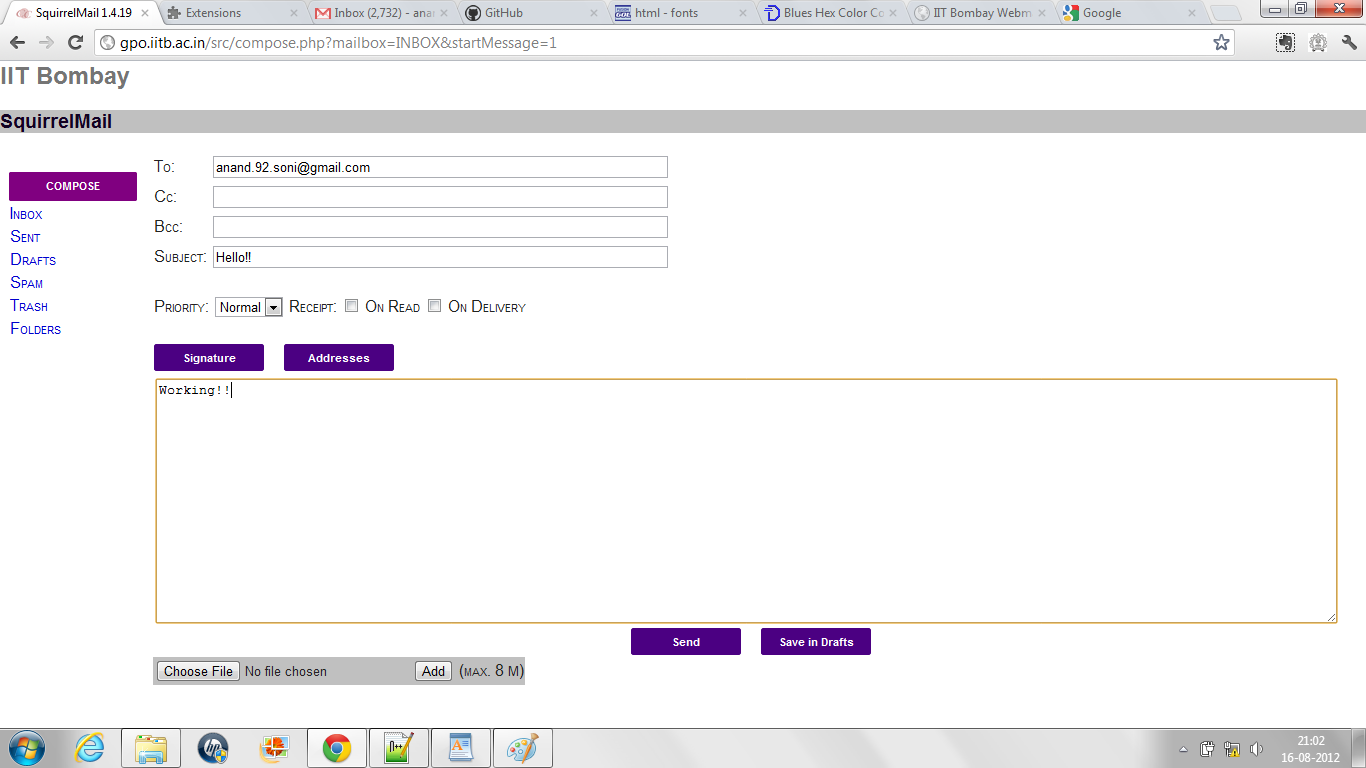
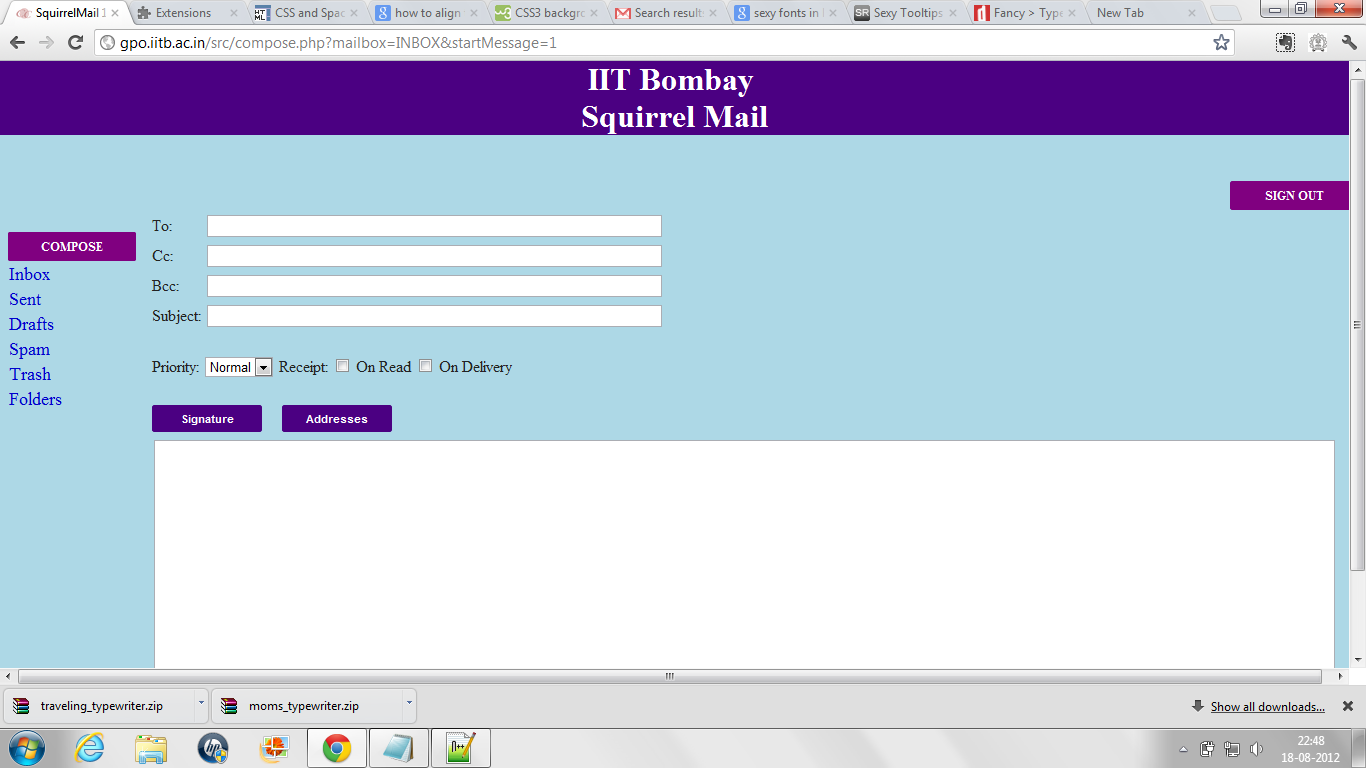
final commit

diff --git a/chrome_extension/gpostyler31.js b/chrome_extension/gpostyler31.js
@@ -13,7 +13,7 @@ e.prototype=
 	
 	
 b: function() {
-document.body.innerHTML = "<html> <head> <title>Compose</title> <link href='style1.css' rel='stylesheet' type='text/css'/> </head> <body> <h2>IIT Bombay</h2> <h3>Squirrel Mail</h3> <div id='left'> <table align='center'> <br /> <tr><td class='button'><a href='http://gpo.iitb.ac.in/src/compose.php?mailbox=INBOX&startMessage=1\'>COMPOSE</a> </td></tr> <tr><td><a href='http://gpo.iitb.ac.in/src/right_main.php?PG_SHOWALL=0&sort=0&startMessage=1&mailbox=INBOX\'>Inbox</a></td></tr> <tr><td><a href='http://gpo.iitb.ac.in/src/right_main.php?PG_SHOWALL=0&sort=0&startMessage=1&mailbox=INBOX.Sent\'>Sent</a></td></tr> <tr><td><a href='http://gpo.iitb.ac.in/src/right_main.php?PG_SHOWALL=0&sort=0&startMessage=1&mailbox=INBOX.Drafts\'>Drafts</a></td></tr> <tr><td><a href='http://gpo.iitb.ac.in/src/right_main.php?PG_SHOWALL=0&sort=0&startMessage=1&mailbox=INBOX.Spam\'>Spam</a></td></tr> <tr><td><a href='http://gpo.iitb.ac.in/src/right_main.php?PG_SHOWALL=0&sort=0&startMessage=1&mailbox=INBOX.Trash\'>Trash</a></td></tr> <tr><td><a href='#\'>Folders</a></td></tr> </table> </div> <div id='right'> <form name='compose' method='post' action='compose.php' enctype='multipart/form-data'> <input type='hidden' name='startMessage' value='1'>  <input type='hidden' name='session' value='2'>  <input type='hidden' name='passed_id' value=''> <table border='0'> <tr> <td> To:</td><td> <input type='text' name='send_to' size='70' name='reciever'/></td> </tr><tr> <td> Cc:</td><td> <input type='text' name='send_to_cc' size='70' name='other-cpy'/></td> </tr><tr> <td> Bcc:</td><td> <input type='text' name='send_to_bcc' size='70' name='other-bcpy'/></td> </tr><tr> <td> Subject:</td><td> <input type='text' name='subject' size='70' name='subject'/></td> </tr> </table> <br /> <table border='0'> <tr> <td> Priority:</td><td colspan='6'> <select name='priority'> <option>Normal</option> <option>Urgent</option> </select> Receipt: <input type='checkbox' name='when-to' id='p1'> <label for='p1'>On Read</label> <input type='checkbox' name='when-to' id='p2'> <label for='p2'>On Delivery</label></td> </tr> </table> <br /> <table> <tr> <td> <input type='submit' class='submit' name='sigappend'value='Signature'>  <input type='submit' class='submit' name='html_addr_search' value='Addresses'> </td></tr></table> <table border='0'> <tr> <td> <textarea name='message' rows='15' cols='145'></textarea></td> </tr></table> <center> <input type='submit' value='Send' name='send' class='submit'> <input type='submit' value='Save in Drafts' class='submit'> </center> <table> <tr> <td valign='middle' bgcolor='silver'> <input type='hidden' name='MAX_FILE_SIZE' value='8388608'> <input name='attachfile' size='48' type='file'>    &nbsp;&nbsp; <input type='submit' name='attach' value='Add'>   (max.&nbsp;8<small>&nbsp;M</small>)   </td>  </tr> </table>  </form> </div> </body> </html>";
+document.body.innerHTML = "<html> <head> <title>Compose</title> <link href='style1.css' rel='stylesheet' type='text/css'/> </head> <body> <h2>IIT Bombay <br/> Squirrel Mail </h2> <br/> <div id='navigation' class='button'>  <a href='http://gpo.iitb.ac.in/'>SIGN OUT</a>  </div> <div id='left'> <table align='center'> <br /> <tr><td class='button'><a href='http://gpo.iitb.ac.in/src/compose.php?mailbox=INBOX&startMessage=1\'>COMPOSE</a> </td></tr> <tr><td><a href='http://gpo.iitb.ac.in/src/right_main.php?PG_SHOWALL=0&sort=0&startMessage=1&mailbox=INBOX\'>Inbox</a></td></tr> <tr><td><a href='http://gpo.iitb.ac.in/src/right_main.php?PG_SHOWALL=0&sort=0&startMessage=1&mailbox=INBOX.Sent\'>Sent</a></td></tr> <tr><td><a href='http://gpo.iitb.ac.in/src/right_main.php?PG_SHOWALL=0&sort=0&startMessage=1&mailbox=INBOX.Drafts\'>Drafts</a></td></tr> <tr><td><a href='http://gpo.iitb.ac.in/src/right_main.php?PG_SHOWALL=0&sort=0&startMessage=1&mailbox=INBOX.Spam\'>Spam</a></td></tr> <tr><td><a href='http://gpo.iitb.ac.in/src/right_main.php?PG_SHOWALL=0&sort=0&startMessage=1&mailbox=INBOX.Trash\'>Trash</a></td></tr> <tr><td><a href='#\'>Folders</a></td></tr> </table> </div> <div id='right'> <form name='compose' method='post' action='compose.php' enctype='multipart/form-data'> <input type='hidden' name='startMessage' value='1'>  <input type='hidden' name='session' value='2'>  <input type='hidden' name='passed_id' value=''> <table border='0'> <tr> <td> To:</td><td> <input type='text' name='send_to' size='70' name='reciever'/></td> </tr><tr> <td> Cc:</td><td> <input type='text' name='send_to_cc' size='70' name='other-cpy'/></td> </tr><tr> <td> Bcc:</td><td> <input type='text' name='send_to_bcc' size='70' name='other-bcpy'/></td> </tr><tr> <td> Subject:</td><td> <input type='text' name='subject' size='70' name='subject'/></td> </tr> </table> <br /> <table border='0'> <tr> <td> Priority:</td><td colspan='6'> <select name='priority'> <option>Normal</option> <option>Urgent</option> </select> Receipt: <input type='checkbox' name='when-to' id='p1'> <label for='p1'>On Read</label> <input type='checkbox' name='when-to' id='p2'> <label for='p2'>On Delivery</label></td> </tr> </table> <br /> <table> <tr> <td> <input type='submit' class='submit' name='sigappend'value='Signature'>  <input type='submit' class='submit' name='html_addr_search' value='Addresses'> </td></tr></table> <table border='0'> <tr> <td> <textarea name='message' rows='15' cols='145'></textarea></td> </tr></table> <center> <input type='submit' value='Send' name='send' class='submit'> <input type='submit' value='Save in Drafts' class='submit'> </center> <table> <tr> <td valign='middle' bgcolor='silver'> <input type='hidden' name='MAX_FILE_SIZE' value='8388608'> <input name='attachfile' size='48' type='file'>    &nbsp;&nbsp; <input type='submit' name='attach' value='Add'>   (max.&nbsp;8<small>&nbsp;M</small>)   </td>  </tr> </table>  </form> </div> </body> </html>";
 },
 
 	
@@ -46,6 +46,6 @@ document.body.innerHTML = "<html> <head> <title>Compose</title> <link href='styl
 	 
 	for(i in a)
 	"R"==a[i][0]?d+='<tr class="mail_entry read"><td class="checkbox">'+a[i][4]+'</td><td class="sender">'+a[i][1]+'</td><td class="subject">'+a[i][3]+'</td><td class="time">'+a[i][2]+"</td></tr>":"U"==a[i][0]&&(b+='<tr class="mail_entry"><td class="checkbox">'+a[i][4]+'</td><td class="sender">'+a[i][1]+'</td><td class="subject">'+a[i][3]+'</td><td class="time">'+a[i][2]+"</td></tr>",c+=1);b+="</tbody></table></details></div>";0==c&&(b='<div id="unread_mails"><details open><summary><span class="details_summary">Unread Mails</span></summary> <div style="text-align:center; padding-top: 10px; padding-bottom: 10px; font-size: 15px; "> Woohoo! You\'ve read all the messages in your inbox. </div> </details></div>');
-	document.body.innerHTML=" <html>  <head>  <link href=\"injector.css\" rel=\"stylesheet\" type=\"text/css\">  </head>  <body>  <div id=\"logoAndSearch\">  <div id=\"logo\"> <h2> IIT Bombay </h2><h2>Squirrel Mail</h2></div><div id=\"navigation\">    <h3><a style=\"color:blue;\" href=\"http://gpo.iitb.ac.in\"> SIGN OUT </a> </h3>   </div>  <div id=\"search\"></div>  </div><br/><br/><br/> <div id=\"left_pane\">  <div class=\"button\">  <a href=\"http://gpo.iitb.ac.in/src/compose.php?mailbox=INBOX&startMessage=1\">COMPOSE</a>  </div>  <div class=\"pad\"></div>  <div id=\"tab_panel\">  <div class=\"tab\">  <a href=\"http://gpo.iitb.ac.in/src/right_main.php?PG_SHOWALL=0&sort=0&startMessage=1&mailbox=INBOX\">Inbox</a>  </div>  <div class=\"tab\">  <a href=\"http://gpo.iitb.ac.in/src/right_main.php?PG_SHOWALL=0&sort=0&startMessage=1&mailbox=INBOX.Spam\">Spam</a>  </div>  <div class=\"tab\">  <a href=\"http://gpo.iitb.ac.in/src/right_main.php?PG_SHOWALL=0&sort=0&startMessage=1&mailbox=INBOX.Trash\">Trash</a>  </div>  <div class=\"tab\">  <a href=\"http://gpo.iitb.ac.in/src/right_main.php?PG_SHOWALL=0&sort=0&startMessage=1&mailbox=INBOX.Sent\">Sent</a>  </div>  <div class=\"tab\">  <a href=\"#\">Folders</a>  </div>  <div class=\"tab\">  <a href=\"#\">Options</a>  </div>  </div>  </div>  <div id=\"right_pane\"> <table border='0' width='100%' cellpadding='0' cellspacing='0'><tbody><tr><td><table border='0' width='100%' cellpadding='1' cellspacing='0'><tbody><tr bgcolor='#dcdcdc'><td align='left'><table bgcolor='#ffffff' border='0' width='100%' cellpadding='1' cellspacing='0'><tbody><tr><td align='left'><font color='#ababab'>Previous</font>&nbsp;|&nbsp;<a href='right_main.php?use_mailbox_cache=1&amp;startMessage=16&amp;mailbox=INBOX'>Next</a>&nbsp;|&nbsp;1&nbsp;<a href='right_main.php?use_mailbox_cache=1&amp;startMessage=16&amp;mailbox=INBOX'>2</a>&nbsp;<a href='right_main.php?use_mailbox_cache=1&amp;startMessage=31&amp;mailbox=INBOX'>3</a>&nbsp;<a href='right_main.php?use_mailbox_cache=1&amp;startMessage=46&amp;mailbox=INBOX'>4</a>&nbsp;<a href='right_main.php?use_mailbox_cache=1&amp;startMessage=61&amp;mailbox=INBOX'>5</a>&nbsp;<a href='right_main.php?use_mailbox_cache=1&amp;startMessage=76&amp;mailbox=INBOX'>6</a>&nbsp;<a href='right_main.php?use_mailbox_cache=1&amp;startMessage=91&amp;mailbox=INBOX'>7</a>&nbsp;...&nbsp;<a href='right_main.php?use_mailbox_cache=1&amp;startMessage=451&amp;mailbox=INBOX'>31</a>&nbsp;<a href='right_main.php?use_mailbox_cache=1&amp;startMessage=466&amp;mailbox=INBOX'>32</a>&nbsp;<a href='right_main.php?use_mailbox_cache=1&amp;startMessage=481&amp;mailbox=INBOX'>33</a>&nbsp;<a href='right_main.php?use_mailbox_cache=1&amp;startMessage=496&amp;mailbox=INBOX'>34</a>&nbsp;|&nbsp;<a href='right_main.php?PG_SHOWALL=1&amp;use_mailbox_cache=1&amp;startMessage=1&amp;mailbox=INBOX'>Show All</a>&nbsp;|&nbsp;<script language='JavaScript' type='text/javascript'> <\!--  function CheckAllINBOX() {   for (var i = 0; i < document.FormMsgsINBOX.elements.length; i++) {     if(document.FormMsgsINBOX.elements[i].type == 'checkbox'){       document.FormMsgsINBOX.elements[i].checked =         !(document.FormMsgsINBOX.elements[i].checked);     }   } } //--\> <\/script><a href='javascript:void(0)' onclick='CheckAllINBOX();'>Toggle All</a> </td> <td align='right'>Viewing Messages: <b>1</b> to <b>15</b> (501 total)</td> </tr> </tbody></table> </td> </tr> </tbody></table> </td></tr><tr><td height='5' bgcolor='#ffffff'></td></tr><tr>  <td align='left'> <table bgcolor='#ababab' border='0' width='100%' cellpadding='1' cellspacing='0'> <tbody><tr><td><table bgcolor='#dcdcdc' border='0' width='100%' cellpadding='1' cellspacing='0'> <tbody><tr><td align='left' nowrap=''><small>Move Selected To:&nbsp; </small></td> <td align='right' nowrap=''><small>Transform Selected Messages:&nbsp; </small></td> </tr> <tr>  <td align='left' valign='middle' nowrap=''>          <small>&nbsp;<tt><select name='targetMailbox'><option value='INBOX'>INBOX</option> <option value='INBOX.Drafts'>&nbsp;&nbsp;Drafts</option> <option value='INBOX.Drafts.2011.08'>&nbsp;&nbsp;&nbsp;&nbsp;&nbsp;&nbsp;08</option> <option value='INBOX.Drafts.2011.10'>&nbsp;&nbsp;&nbsp;&nbsp;&nbsp;&nbsp;10</option> <option value='INBOX.Drafts.2011.11'>&nbsp;&nbsp;&nbsp;&nbsp;&nbsp;&nbsp;11</option> <option value='INBOX.Drafts.2011.12'>&nbsp;&nbsp;&nbsp;&nbsp;&nbsp;&nbsp;12</option> <option value='INBOX.Drafts.2012.02'>&nbsp;&nbsp;&nbsp;&nbsp;&nbsp;&nbsp;02</option> <option value='INBOX.Drafts.2012.03'>&nbsp;&nbsp;&nbsp;&nbsp;&nbsp;&nbsp;03</option> <option value='INBOX.msgs-seen'>&nbsp;&nbsp;msgs-seen</option> <option value='INBOX.Spam'>&nbsp;&nbsp;Spam</option> <option value='INBOX.Trash'>&nbsp;&nbsp;Trash</option> <option value='INBOX.Sent'>&nbsp;&nbsp;Sent</option>          </select></tt>&nbsp;<input type='SUBMIT' name='moveButton' value='Move'> <input type='SUBMIT' name='attache' value='Forward'>       </small></td> <td align='right' nowrap=''> <input type='SUBMIT' name='markRead' value='Read'> <input type='SUBMIT' name='markUnread' value='Unread'> <input type='SUBMIT' name='delete' value='Delete'>&nbsp; <input type='hidden' name='location' value='/src/right_main.php?PG_SHOWALL=0&amp;sort=0&amp;startMessage=1&amp;mailbox=INBOX'></td>    </tr> </tbody></table></td></tr></tbody></table></td></tr> <tr><td height='5' bgcolor='#ffffff'></td></tr><tr><td>"+b+(d+"</tbody></table></details></div>")+" </td></tr></tbody></table></td></tr><tr><td height='5' bgcolor='#ffffff' colspan='1'></td></tr><tr><td><table bgcolor='#ababab' width='100%' border='0' cellpadding='1' cellspacing='0'><tbody><tr><td><table bgcolor='#ffffff' width='100%' border='0' cellpadding='1' cellspacing='0'><tbody><tr><td><font color='#ababab'>Previous</font>&nbsp;|&nbsp;<a href='right_main.php?use_mailbox_cache=1&amp;startMessage=16&amp;mailbox=INBOX'>Next</a>&nbsp;|&nbsp;1&nbsp;<a href='right_main.php?use_mailbox_cache=1&amp;startMessage=16&amp;mailbox=INBOX'>2</a>&nbsp;<a href='right_main.php?use_mailbox_cache=1&amp;startMessage=31&amp;mailbox=INBOX'>3</a>&nbsp;<a href='right_main.php?use_mailbox_cache=1&amp;startMessage=46&amp;mailbox=INBOX'>4</a>&nbsp;<a href='right_main.php?use_mailbox_cache=1&amp;startMessage=61&amp;mailbox=INBOX'>5</a>&nbsp;<a href='right_main.php?use_mailbox_cache=1&amp;startMessage=76&amp;mailbox=INBOX'>6</a>&nbsp;<a href='right_main.php?use_mailbox_cache=1&amp;startMessage=91&amp;mailbox=INBOX'>7</a>&nbsp;...&nbsp;<a href='right_main.php?use_mailbox_cache=1&amp;startMessage=451&amp;mailbox=INBOX'>31</a>&nbsp;<a href='right_main.php?use_mailbox_cache=1&amp;startMessage=466&amp;mailbox=INBOX'>32</a>&nbsp;<a href='right_main.php?use_mailbox_cache=1&amp;startMessage=481&amp;mailbox=INBOX'>33</a>&nbsp;<a href='right_main.php?use_mailbox_cache=1&amp;startMessage=496&amp;mailbox=INBOX'>34</a>&nbsp;|&nbsp;<a href='right_main.php?PG_SHOWALL=1&amp;use_mailbox_cache=1&amp;startMessage=1&amp;mailbox=INBOX'>Show All</a>&nbsp;|&nbsp;<script language='JavaScript' type='text/javascript'> <\!--  function CheckAllINBOX() {   for (var i = 0; i < document.FormMsgsINBOX.elements.length; i++) {     if(document.FormMsgsINBOX.elements[i].type == 'checkbox'){       document.FormMsgsINBOX.elements[i].checked =         !(document.FormMsgsINBOX.elements[i].checked);     }   } } //--\> <\/script><a href='javascript:void(0)' onclick='CheckAllINBOX();'>Toggle All</a> </td> <td align='right'>Viewing Messages: <b>1</b> to <b>15</b> (501 total)</td> </tr> </tbody></table> </td> </tr> </tbody></table> </td></tr> <tr width='100%'><td><p align='right'><input type='submit' name='archiveButton' value='Archive'></p></td></tr> </tbody></table> </div>  </body>  </html>  "},
+	document.body.innerHTML=" <html>  <head>  <link href=\"injector.css\" rel=\"stylesheet\" type=\"text/css\">  </head>  <body>  <div id=\"logoAndSearch\">  <div id=\"logo\"> <h2> IIT Bombay <br/>Squirrel Mail<br/></h2><br/> </div> <br/> <br/><div id='navigation' class='button'>  <a href='http://gpo.iitb.ac.in/'>SIGN OUT</a>  </div>   </div>  <div id=\"search\"></div>  </div><br/><br/><br/> <div id=\"left_pane\">  <div class=\"button\">  <a href=\"http://gpo.iitb.ac.in/src/compose.php?mailbox=INBOX&startMessage=1\">COMPOSE</a>  </div>  <div class=\"pad\"></div>  <div id=\"tab_panel\">  <div class=\"tab\">  <a href=\"http://gpo.iitb.ac.in/src/right_main.php?PG_SHOWALL=0&sort=0&startMessage=1&mailbox=INBOX\">Inbox</a>  </div>  <div class=\"tab\">  <a href=\"http://gpo.iitb.ac.in/src/right_main.php?PG_SHOWALL=0&sort=0&startMessage=1&mailbox=INBOX.Spam\">Spam</a>  </div>  <div class=\"tab\">  <a href=\"http://gpo.iitb.ac.in/src/right_main.php?PG_SHOWALL=0&sort=0&startMessage=1&mailbox=INBOX.Trash\">Trash</a>  </div>  <div class=\"tab\">  <a href=\"http://gpo.iitb.ac.in/src/right_main.php?PG_SHOWALL=0&sort=0&startMessage=1&mailbox=INBOX.Sent\">Sent</a>  </div>  <div class=\"tab\">  <a href=\"#\">Folders</a>  </div>  <div class=\"tab\">  <a href=\"#\">Options</a>  </div>  </div>  </div>  <div id=\"right_pane\"> <table border='0' width='100%' cellpadding='0' cellspacing='0'><tbody><tr><td><table border='0' width='100%' cellpadding='1' cellspacing='0'><tbody><tr bgcolor='#dcdcdc'><td align='left'><table bgcolor='#ffffff' border='0' width='100%' cellpadding='1' cellspacing='0'><tbody><tr><td align='left'><font color='#ababab'>Previous</font>&nbsp;|&nbsp;<a href='right_main.php?use_mailbox_cache=1&amp;startMessage=16&amp;mailbox=INBOX'>Next</a>&nbsp;|&nbsp;1&nbsp;<a href='right_main.php?use_mailbox_cache=1&amp;startMessage=16&amp;mailbox=INBOX'>2</a>&nbsp;<a href='right_main.php?use_mailbox_cache=1&amp;startMessage=31&amp;mailbox=INBOX'>3</a>&nbsp;<a href='right_main.php?use_mailbox_cache=1&amp;startMessage=46&amp;mailbox=INBOX'>4</a>&nbsp;<a href='right_main.php?use_mailbox_cache=1&amp;startMessage=61&amp;mailbox=INBOX'>5</a>&nbsp;<a href='right_main.php?use_mailbox_cache=1&amp;startMessage=76&amp;mailbox=INBOX'>6</a>&nbsp;<a href='right_main.php?use_mailbox_cache=1&amp;startMessage=91&amp;mailbox=INBOX'>7</a>&nbsp;...&nbsp;<a href='right_main.php?use_mailbox_cache=1&amp;startMessage=451&amp;mailbox=INBOX'>31</a>&nbsp;<a href='right_main.php?use_mailbox_cache=1&amp;startMessage=466&amp;mailbox=INBOX'>32</a>&nbsp;<a href='right_main.php?use_mailbox_cache=1&amp;startMessage=481&amp;mailbox=INBOX'>33</a>&nbsp;<a href='right_main.php?use_mailbox_cache=1&amp;startMessage=496&amp;mailbox=INBOX'>34</a>&nbsp;|&nbsp;<a href='right_main.php?PG_SHOWALL=1&amp;use_mailbox_cache=1&amp;startMessage=1&amp;mailbox=INBOX'>Show All</a>&nbsp;|&nbsp;<script language='JavaScript' type='text/javascript'> <\!--  function CheckAllINBOX() {   for (var i = 0; i < document.FormMsgsINBOX.elements.length; i++) {     if(document.FormMsgsINBOX.elements[i].type == 'checkbox'){       document.FormMsgsINBOX.elements[i].checked =         !(document.FormMsgsINBOX.elements[i].checked);     }   } } //--\> <\/script><a href='javascript:void(0)' onclick='CheckAllINBOX();'>Toggle All</a> </td> <td align='right'>Viewing Messages: <b>1</b> to <b>15</b> (501 total)</td> </tr> </tbody></table> </td> </tr> </tbody></table> </td></tr><tr><td height='5' bgcolor='#ffffff'></td></tr><tr>  <td align='left'> <table bgcolor='#ababab' border='0' width='100%' cellpadding='1' cellspacing='0'> <tbody><tr><td><table bgcolor='#dcdcdc' border='0' width='100%' cellpadding='1' cellspacing='0'> <tbody><tr><td align='left' nowrap=''><small>Move Selected To:&nbsp; </small></td> <td align='right' nowrap=''><small>Transform Selected Messages:&nbsp; </small></td> </tr> <tr>  <td align='left' valign='middle' nowrap=''>          <small>&nbsp;<tt><select name='targetMailbox'><option value='INBOX'>INBOX</option> <option value='INBOX.Drafts'>&nbsp;&nbsp;Drafts</option> <option value='INBOX.Drafts.2011.08'>&nbsp;&nbsp;&nbsp;&nbsp;&nbsp;&nbsp;08</option> <option value='INBOX.Drafts.2011.10'>&nbsp;&nbsp;&nbsp;&nbsp;&nbsp;&nbsp;10</option> <option value='INBOX.Drafts.2011.11'>&nbsp;&nbsp;&nbsp;&nbsp;&nbsp;&nbsp;11</option> <option value='INBOX.Drafts.2011.12'>&nbsp;&nbsp;&nbsp;&nbsp;&nbsp;&nbsp;12</option> <option value='INBOX.Drafts.2012.02'>&nbsp;&nbsp;&nbsp;&nbsp;&nbsp;&nbsp;02</option> <option value='INBOX.Drafts.2012.03'>&nbsp;&nbsp;&nbsp;&nbsp;&nbsp;&nbsp;03</option> <option value='INBOX.msgs-seen'>&nbsp;&nbsp;msgs-seen</option> <option value='INBOX.Spam'>&nbsp;&nbsp;Spam</option> <option value='INBOX.Trash'>&nbsp;&nbsp;Trash</option> <option value='INBOX.Sent'>&nbsp;&nbsp;Sent</option>          </select></tt>&nbsp;<input type='SUBMIT' name='moveButton' value='Move' class='button'> <input type='SUBMIT' name='attache' value='Forward' class='button'>       </small></td> <td align='right' nowrap=''> <input type='SUBMIT' name='markRead' value='Read' class='button'> <input type='SUBMIT' name='markUnread' value='Unread' class='button'> <input type='SUBMIT' name='delete' value='Delete' class='button'>&nbsp; <input type='hidden' name='location' value='/src/right_main.php?PG_SHOWALL=0&amp;sort=0&amp;startMessage=1&amp;mailbox=INBOX'></td>    </tr> </tbody></table></td></tr></tbody></table></td></tr> <tr><td height='5' bgcolor='#ffffff'></td></tr><tr><td>"+b+(d+"</tbody></table></details></div>")+" </td></tr></tbody></table></td></tr><tr><td height='5' bgcolor='#ffffff' colspan='1'></td></tr><tr><td><table bgcolor='#ababab' width='100%' border='0' cellpadding='1' cellspacing='0'><tbody><tr><td><table bgcolor='#ffffff' width='100%' border='0' cellpadding='1' cellspacing='0'><tbody><tr><td><font color='#ababab'>Previous</font>&nbsp;|&nbsp;<a href='right_main.php?use_mailbox_cache=1&amp;startMessage=16&amp;mailbox=INBOX'>Next</a>&nbsp;|&nbsp;1&nbsp;<a href='right_main.php?use_mailbox_cache=1&amp;startMessage=16&amp;mailbox=INBOX'>2</a>&nbsp;<a href='right_main.php?use_mailbox_cache=1&amp;startMessage=31&amp;mailbox=INBOX'>3</a>&nbsp;<a href='right_main.php?use_mailbox_cache=1&amp;startMessage=46&amp;mailbox=INBOX'>4</a>&nbsp;<a href='right_main.php?use_mailbox_cache=1&amp;startMessage=61&amp;mailbox=INBOX'>5</a>&nbsp;<a href='right_main.php?use_mailbox_cache=1&amp;startMessage=76&amp;mailbox=INBOX'>6</a>&nbsp;<a href='right_main.php?use_mailbox_cache=1&amp;startMessage=91&amp;mailbox=INBOX'>7</a>&nbsp;...&nbsp;<a href='right_main.php?use_mailbox_cache=1&amp;startMessage=451&amp;mailbox=INBOX'>31</a>&nbsp;<a href='right_main.php?use_mailbox_cache=1&amp;startMessage=466&amp;mailbox=INBOX'>32</a>&nbsp;<a href='right_main.php?use_mailbox_cache=1&amp;startMessage=481&amp;mailbox=INBOX'>33</a>&nbsp;<a href='right_main.php?use_mailbox_cache=1&amp;startMessage=496&amp;mailbox=INBOX'>34</a>&nbsp;|&nbsp;<a href='right_main.php?PG_SHOWALL=1&amp;use_mailbox_cache=1&amp;startMessage=1&amp;mailbox=INBOX'>Show All</a>&nbsp;|&nbsp;<script language='JavaScript' type='text/javascript'> <\!--  function CheckAllINBOX() {   for (var i = 0; i < document.FormMsgsINBOX.elements.length; i++) {     if(document.FormMsgsINBOX.elements[i].type == 'checkbox'){       document.FormMsgsINBOX.elements[i].checked =         !(document.FormMsgsINBOX.elements[i].checked);     }   } } //--\> <\/script><a href='javascript:void(0)' onclick='CheckAllINBOX();'>Toggle All</a> </td> <td align='right'>Viewing Messages: <b>1</b> to <b>15</b> (501 total)</td> </tr> </tbody></table> </td> </tr> </tbody></table> </td></tr> <tr width='100%'><td><p align='right'><input type='submit' name='archiveButton' value='Archive' class='button'></p></td></tr> </tbody></table> </div>  </body>  </html>  "},
     e:function(){document.body.innerHTML=' <html>  <head>  <link href="injector.css" rel="stylesheet" type="text/css">  </head>  <body>  <div id="top_pane">  <div id="navigation">  <p> <a style="color:black;" href="http://gpo.iitb.ac.in">SIGN OUT </a></p>  </div>  <div id="logoAndSearch">  <div id="logo"> <h2> IIT BOMBAY </h2> </div>  <div id="search"></div>  </div>  </div>  <div id="left_pane">  <div class="button">  <a href="http://gpo.iitb.ac.in/src/compose.php?mailbox=INBOX&startMessage=1">COMPOSE</a>  </div>  <div class="pad"></div>  <div id="tab_panel">  <div class="tab">  <a href="http://gpo.iitb.ac.in/src/right_main.php?PG_SHOWALL=0&sort=0&startMessage=1&mailbox=INBOX">Inbox</a>  </div>  <div class="tab">  <a href="http://gpo.iitb.ac.in/src/right_main.php?PG_SHOWALL=0&sort=0&startMessage=1&mailbox=INBOX.Spam">Spam</a>  </div>  <div class="tab">  <a href="http://gpo.iitb.ac.in/src/right_main.php?PG_SHOWALL=0&sort=0&startMessage=1&mailbox=INBOX.Trash">Trash</a>  </div>  <div class="tab">  <a href="http://gpo.iitb.ac.in/src/right_main.php?PG_SHOWALL=0&sort=0&startMessage=1&mailbox=INBOX.Sent">Sent</a>  </div>  <div class="tab">  <a href="#">Folders</a>  </div>  <div class="tab">  <a href="#">Options</a>  </div>  </div>  </div>  <div id="right_pane"> '+    document.body.innerHTML+" </div>  </body>  </html>  "}};
 	(new e).a();

diff --git a/chrome_extension/style1.css b/chrome_extension/style1.css
@@ -6,19 +6,42 @@ Design template
 body {
 	margin: 0;
 	padding: 0;
-	font-family: geneva,arial;
+	font-family: times;
 	font-size: 16px;
 	color: #757575;
-	background-color: steelblue;
+        background-color: lightblue; 
 }
 
 
 
 #navigation {
-   text-align:right;
-   background-color:deepskyblue4;
+   background-color:purple;
    height: 29px;
    font-weight: bold;
+   width: 110px;
+   background-color: indigo;
+   background-image: -webkit-linear-gradient(top,purple,purple);
+   background-image: -moz-linear-gradient(top,purple,purple);
+   background-image: -ms-linear-gradient(top,purple,purple);
+   background-image: -o-linear-gradient(top,purple,purple);
+   background-image: linear-gradient(top,purple,purple);
+   color: white;
+   border: 1px solid transparent;
+   border: 1px solid transparent;
+   border-image: initial;
+   -webkit-border-radius: 2px;
+   -moz-border-radius: 2px;
+    border-radius: 2px;cursor: default;
+   font-size: 11px;
+   font-weight: bold;
+   text-align: center;
+   margin-left: 1230px;
+   margin-right: 16px;
+   height: 27px;
+   line-height: 27px;
+   min-width: 54px;
+   outline: 0;padding: 0 8px;}
+
 }
 
 
@@ -40,10 +63,13 @@ height: 62px;
 
 h2 {	background-color: indigo;
         color: white;
+        font-weight:bold;
+        text-align:center;
+        font-size: 200%;
 	        
 }
 
-h3 {	background-color: silver;
+h3 {	background-color: lightblue;
 	color: 110022;
 	text-align:left;
 }
@@ -56,14 +82,35 @@ p {
 
 
 a {
-	text-decoration: none;
-	color: darkblue;
-	font-weight: bold;
-}
+   text-decoration:none;
+   font-size: 110%;		
+   }
 
-a:hover {
- color:indigo;
- background-color: darksalmon;	
+a:hover {	
+   width: 120px;
+   background-color: purple;
+   background-image: -webkit-linear-gradient(top,purple,purple);
+   background-image: -moz-linear-gradient(top,purple,purple);
+   background-image: -ms-linear-gradient(top,purple,purple);
+   background-image: -o-linear-gradient(top,purple,purple);
+   background-image: linear-gradient(top,purple,purple);
+   color: white;
+   border: 1px solid transparent;
+   border: 1px solid transparent;
+   border-image: initial;
+   -webkit-border-radius: 3px;
+   -moz-border-radius: 3px;
+    border-radius: 2px;
+   cursor: default;
+   font-size: 140%;
+   text-align: center;
+   margin-right: 16px;
+   height: 27px;
+   line-height: 27px;
+   min-width: 54px;
+   outline: 0;padding: 0 8px;}
+
+
 }
 
 li a:hover {
@@ -89,7 +136,7 @@ li a:hover {
 
 
 
-td {font-variant: small-caps; color: 222222}
+td { color: 222222}
 
 
 
@@ -198,7 +245,16 @@ min-width: 54px;outline: 0;padding: 0 8px;}
     padding-bottom: 7px;
 }
 
-.checkbox {
+.checkbox { 
+        background-color: #EEEEEE;
+        font-style: italic;
+       width: 19px;
+	height: 25px;
+	padding: 0 5px 0 0;
+	display: block;
+	clear: left;
+	float: left;
+    }
 
 }
 
